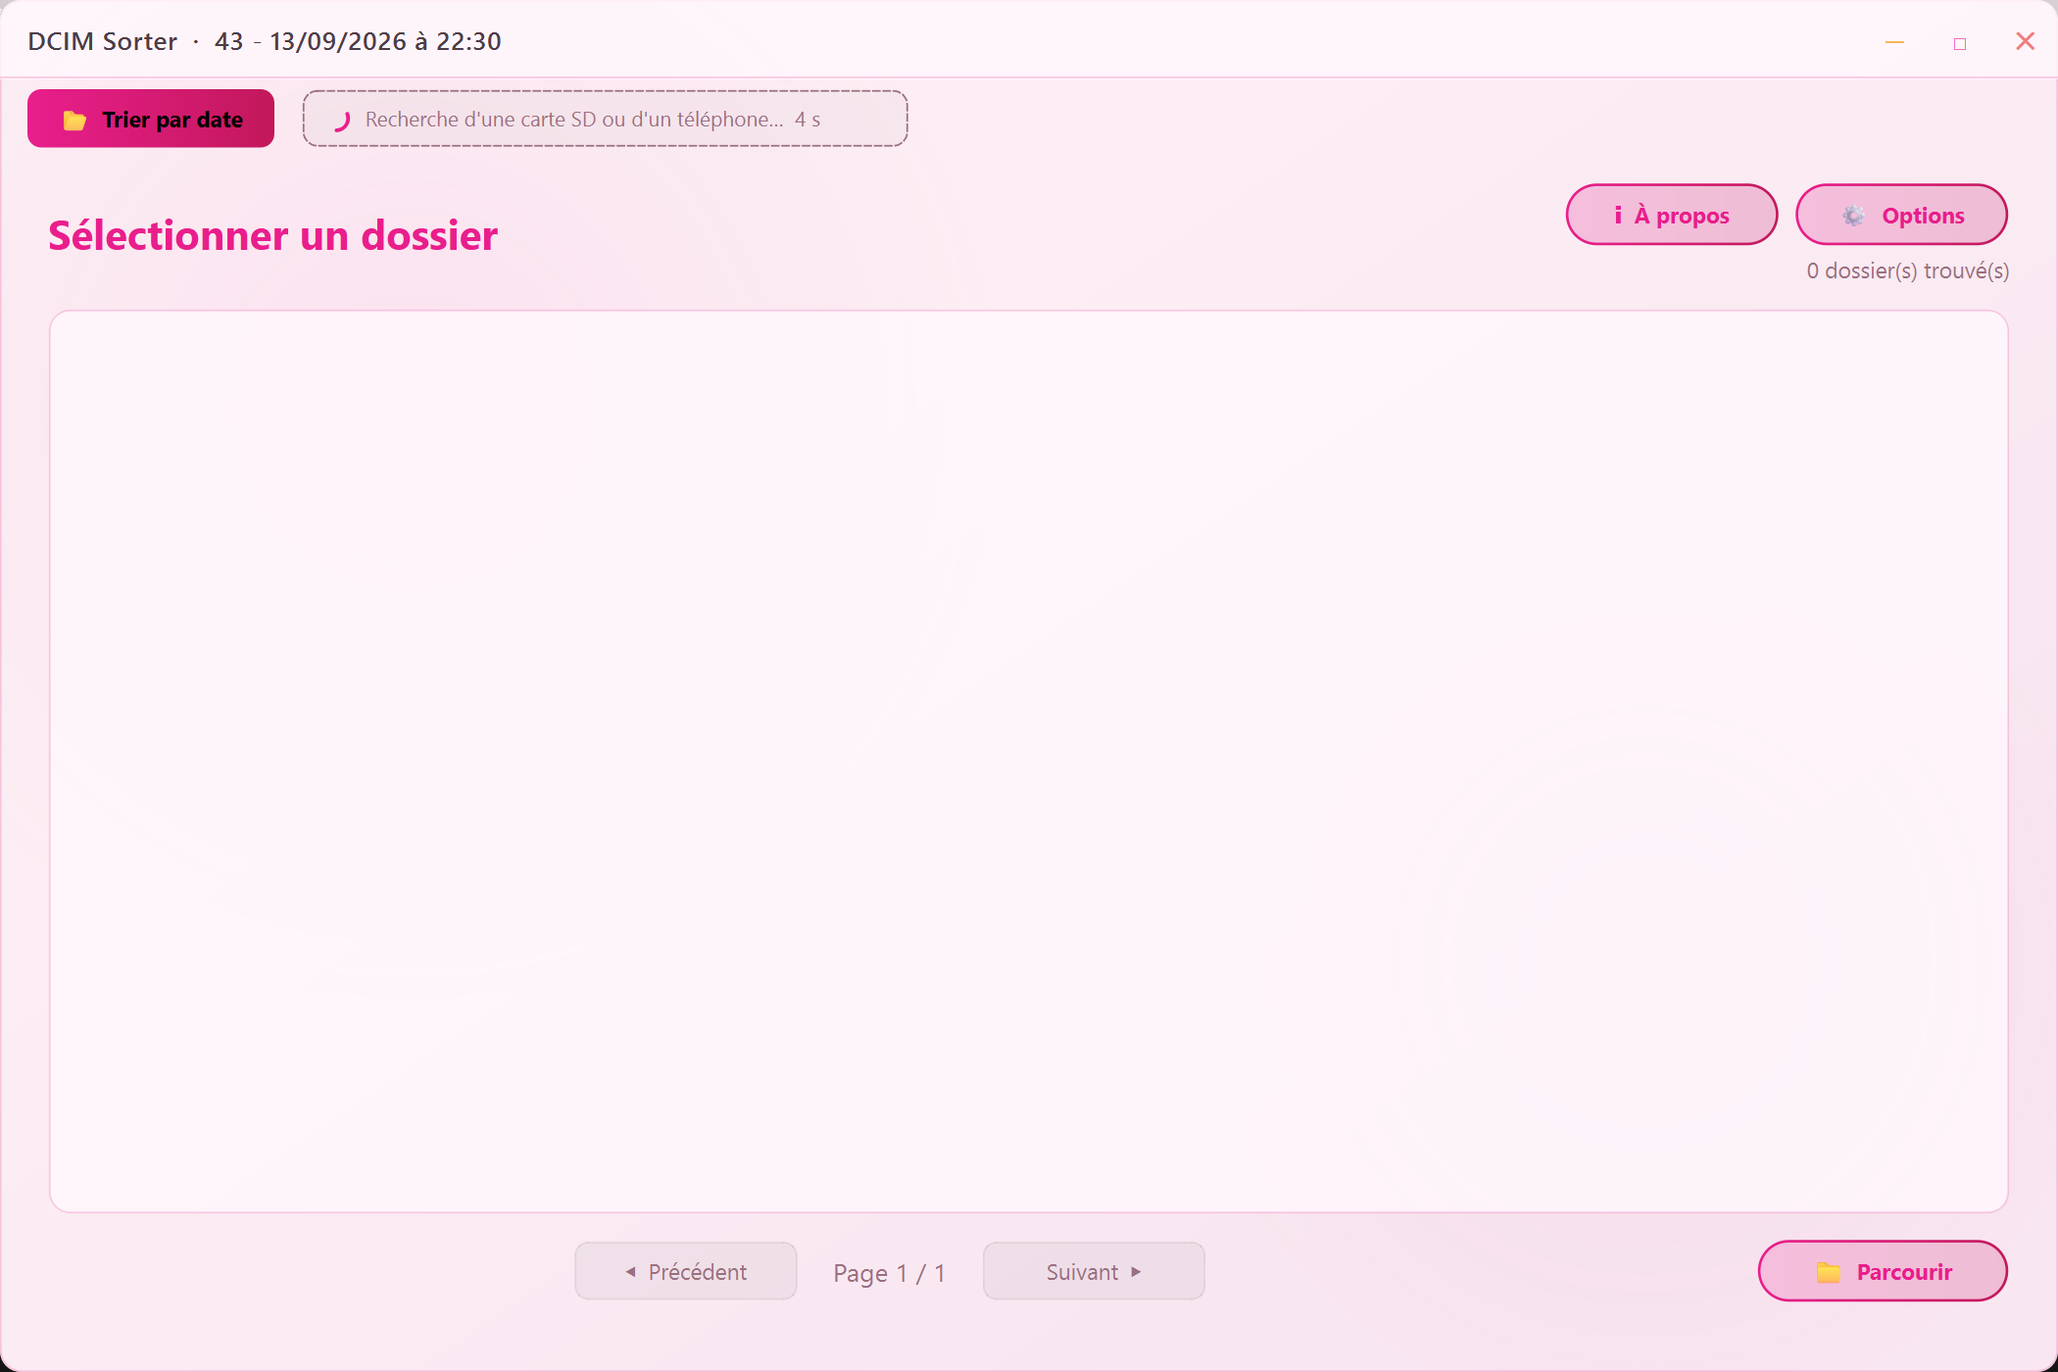
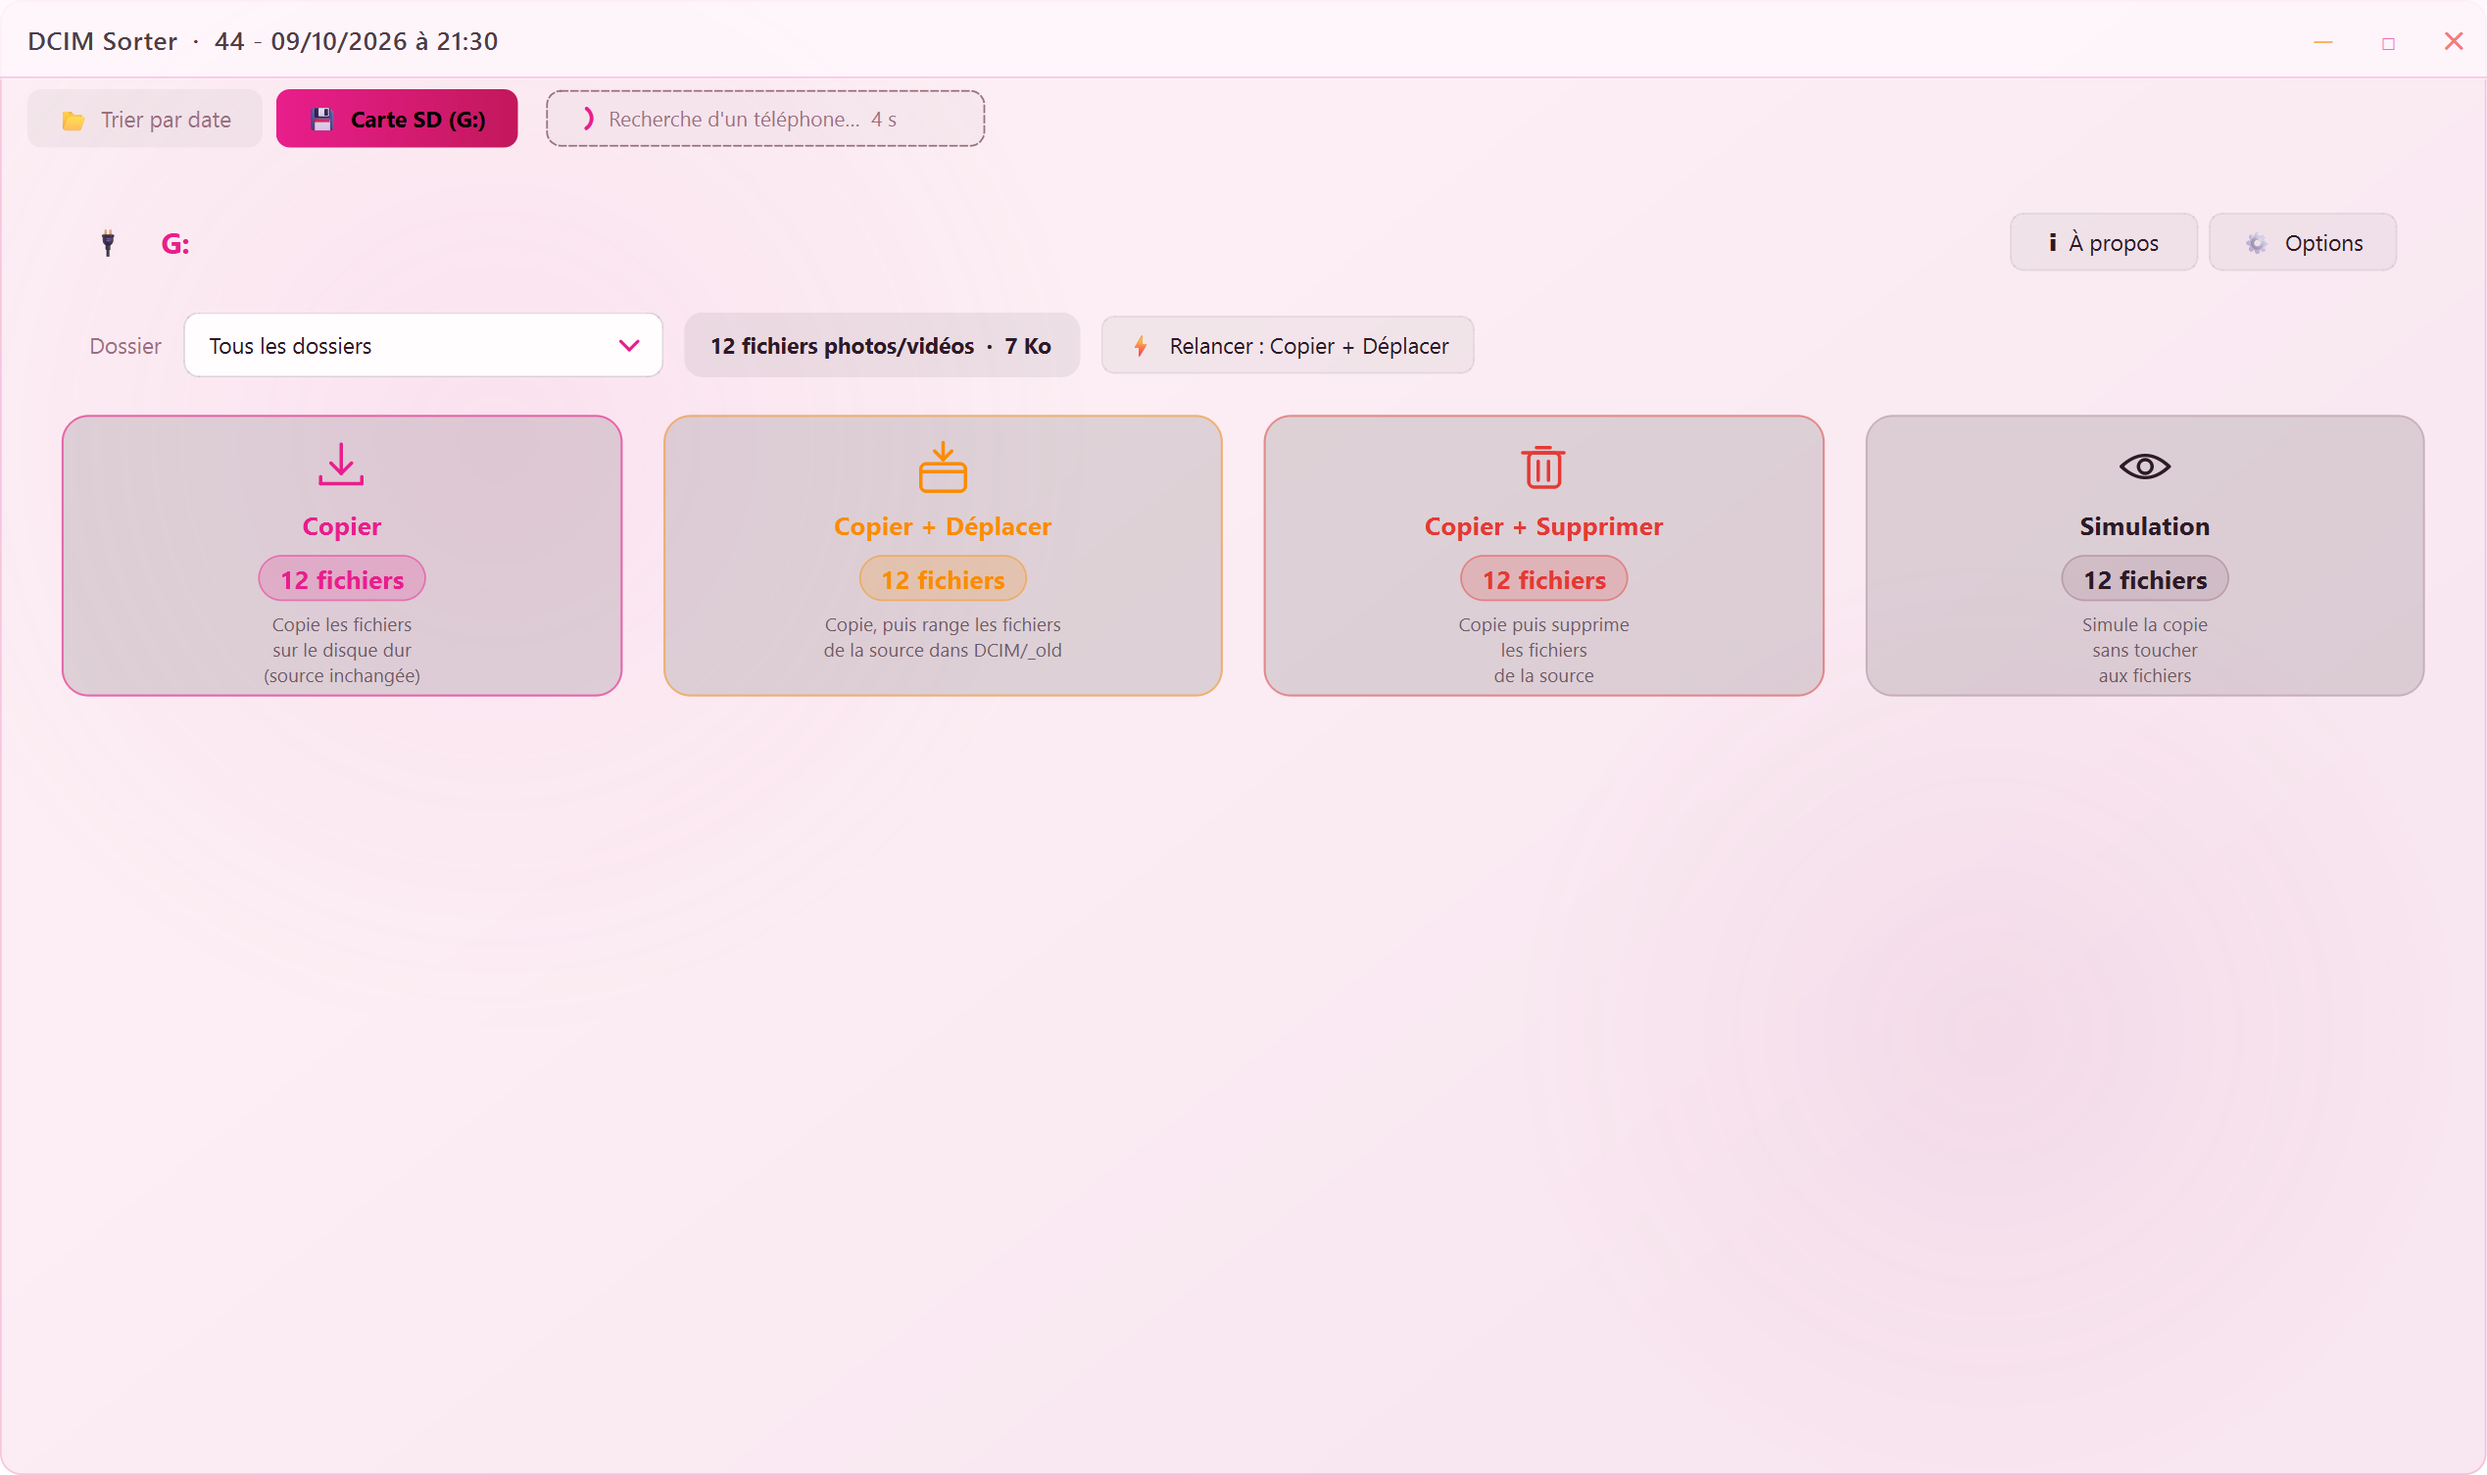
v44: robust disk-space guard, exe-compatible paths (PyInstaller), build_exe.ps1 script, README and screenshot refreshed

diff --git a/photo_organiser.py b/photo_organiser.py
@@ -1,6 +1,6 @@
 #!/usr/bin/env python3
 """
-DCIM Sorter  ·  43 - 13/09/2026 à 22:30
+DCIM Sorter  ·  44 - 09/10/2026 à 21:30
 Organise photos et vidéos par jour via données EXIF
 """
 
@@ -35,13 +35,17 @@ from PyQt6.QtGui import (
 )
 
 # ── Versioning ─────────────────────────────────────────────────────────────
-VERSION      = 43
-CREATED      = "13/09/2026 à 22:30"
+VERSION      = 44
+CREATED      = "09/10/2026 à 21:30"
 APP_NAME     = "DCIM Sorter"
 WINDOW_TITLE = f"{APP_NAME}  ·  {VERSION} - {CREATED}"
 
 # ── Logging ─────────────────────────────────────────────────────────────────
-_LOG_DIR = Path(__file__).parent / "log"
+# Dossier de l'application : à côté de l'exe en version compilée (PyInstaller),
+# à côté du script sinon.
+_APP_DIR = (Path(sys.executable).parent if getattr(sys, "frozen", False)
+            else Path(__file__).parent)
+_LOG_DIR = _APP_DIR / "log"
 _LOG_DIR.mkdir(exist_ok=True)
 _log_file = _LOG_DIR / f"{VERSION}_{datetime.now().strftime('%Y%m%d_%H%M%S')}.log"
 
@@ -1523,7 +1527,7 @@ class _ExiftoolDownloadWorker(QThread):
             url = f"https://exiftool.org/{zip_name}"
 
             # 2 — télécharger le zip
-            dest_dir = Path(__file__).parent
+            dest_dir = _APP_DIR
             zip_path = dest_dir / zip_name
             with urllib.request.urlopen(url, timeout=120) as resp:
                 total      = int(resp.headers.get('Content-Length', 0))
@@ -5030,7 +5034,12 @@ class UsbImportView(QWidget):
             import shutil as _sh
             target = get_usb_target()
             try:
-                free = _sh.disk_usage(target).free
+                # le dossier cible peut ne pas exister encore : on remonte
+                # au premier ancêtre existant (au pire, la racine du disque)
+                probe = Path(target)
+                while not probe.exists() and probe.parent != probe:
+                    probe = probe.parent
+                free = _sh.disk_usage(str(probe)).free
             except Exception:
                 free = None
             margin = 500 * 1024 * 1024   # garde 500 Mo de marge
@@ -5354,7 +5363,7 @@ class UsbImportView(QWidget):
     def _save_mtp_log(self):
         try:
             import time as _time
-            log_dir = Path(__file__).parent / "log"
+            log_dir = _LOG_DIR
             log_dir.mkdir(exist_ok=True)
             fname = log_dir / f"mtp_{datetime.now().strftime('%Y%m%d_%H%M%S')}.log"
             lines = []
@@ -6094,6 +6103,9 @@ class MainWindow(QMainWindow):
         self._bg_timer.timeout.connect(self._tick_bg)
         self._bg_timer.start(33)
 
+        # Téléphones branchés : nom d'appareil → (bouton d'onglet, vue)
+        self._phones: dict[str, tuple] = {}
+        self._last_phone_scan: set[str] = set()
         self._setup_ui()
         self._center()
 
@@ -6105,9 +6117,7 @@ class MainWindow(QMainWindow):
         self._usb_timer.timeout.connect(self._poll_usb)
         self._usb_timer.start(2000)
         self._usb_state: tuple[str, str] | None = None
-        # Téléphones branchés : nom d'appareil → (bouton d'onglet, vue)
-        self._phones: dict[str, tuple] = {}
-        self._last_phone_scan: set[str] = set()
+
         self._mtp_poll_counter   = 0
         self._mtp_scan_worker: object | None = None
         QTimer.singleShot(200, self._poll_usb)

diff --git a/README.md b/README.md
@@ -8,13 +8,15 @@ Point it at your camera card, USB stick or MTP phone: every photo and video is c
 
 ## Features
 
-- **Sources**: SD cards / USB drives (DCIM), and **phones plugged in MTP mode** (through the Windows Shell — no driver, no phone app needed).
-- **EXIF-based day sorting** via [exiftool](https://exiftool.org/) (the app offers to download it on first run).
-- **Priority subfolders** — files whose path matches your configured folder names (e.g. `_Priority`) are routed to their own tree.
-- **Date filters** — import everything, or only after a given date.
-- **Parallel copy** with per-file progress, duplicate-safe naming.
-- **Delete after copy** (optional, off by default) — clearly confirmed before anything is removed from the source.
-- Animated, themeable UI (cyberpunk / premium / sakura…), remembers your settings.
+- **Sources**: SD cards / USB drives (DCIM), and **phones plugged in MTP mode** (through the Windows Shell — no driver, no phone app needed). Several phones at once each get their own tab.
+- **Four import modes**: *Copy* (source untouched), *Copy + Move* (source files tucked away into `DCIM/_old` — nothing deleted), *Copy + Delete* (only files whose copy is verified are removed), *Preview* (dry run).
+- **EXIF-based day sorting** via [exiftool](https://exiftool.org/) (the app offers to download it on first run) — including **video dates** from QuickTime metadata, which are far more reliable than file dates after a transfer.
+- **Safe by design**: free disk space checked before importing, duplicate detection (same name + size), interrupted MTP imports **resume** where they left off, locked-phone writes detected up front, per-file progress with time remaining and a working Stop button.
+- **One-click re-run** of the last action used with each device.
+- **Date filter** — import everything, or only photos taken since a given date.
+- Windows **toast notification** and sound when an import finishes (both optional).
+- **French / English** interface (Options → Language), 40 themes, 4K/HiDPI.
+- Checks GitHub for a newer release at startup (discreet, offline-safe).
 
 ## Installation
 
@@ -33,19 +35,21 @@ Optional — Start Menu shortcut (also generates the icon):
 python install_start_menu.py
 ```
 
+A standalone `.exe` (no Python required) is published on the [Releases](https://github.com/hypedigger/DCIM-Sorter/releases) page — you can build it yourself with `powershell -File build_exe.ps1`.
+
 ## Usage
 
-1. Plug in your card or phone — the app scans for DCIM sources in the background.
-2. Pick the source and your photo library root.
-3. Choose the date range, check **Delete after copy** only if you want the source cleaned.
-4. Start — files land in `Root\YYYY\to_sort\MM\DD`.
+1. Plug in your card or phone — the app scans for DCIM sources in the background and opens one tab per device.
+2. Pick the folder to import (defaults to `DCIM/Camera` on phones, the whole `DCIM` on cards) and, if you want, a date filter.
+3. Choose a mode — *Preview* shows what would happen without touching anything.
+4. Files land in `Root\YYYY\to_sort\MM\DD`; the *Sort by date* tab then helps you split a month into per-day folders.
 
-Settings (library root, priority folder names, exiftool path, theme) live in the standard Windows registry for the app and never in this repository.
+Settings (library root, destination, priority folder names, exiftool path, language, theme, notifications) live in the Windows registry for the app and never in this repository.
 
 ## Notes
 
 - exiftool is © Phil Harvey, distributed under the Perl Artistic License — downloaded from the official site, never bundled here.
-- UI is currently in French; contributions welcome.
+- Phones must be in **file-transfer (MTP) mode**, with the screen unlocked for modes that write to the phone.
 
 ## Support
 
